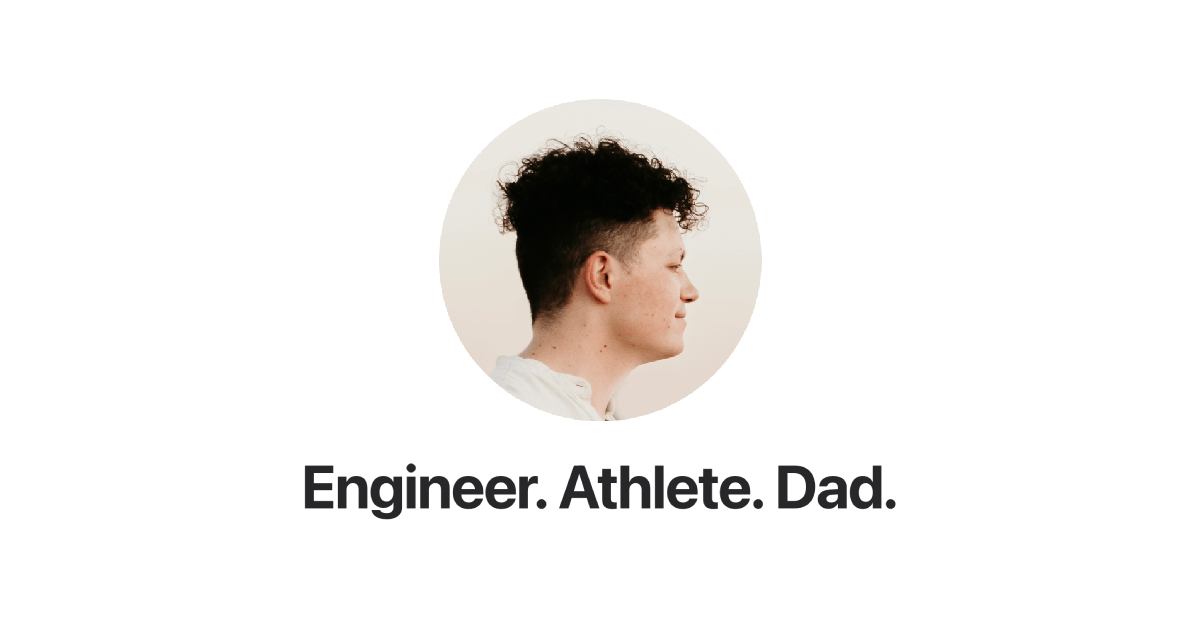
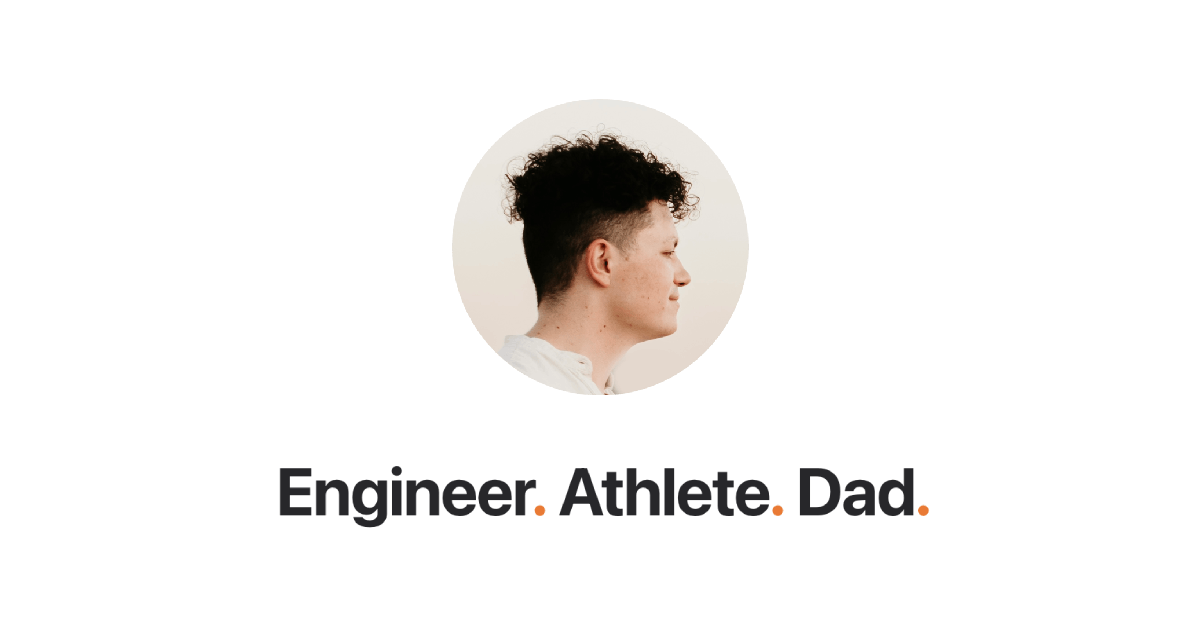
update themes

diff --git a/src/app/page.tsx b/src/app/page.tsx
@@ -7,12 +7,6 @@ import {
 } from '@/components/Icons';
 import { Photos } from '@/components/Photos';
 import { SocialLink } from '@/components/SocialLink';
-import { Metadata } from 'next';
-
-export const metadata: Metadata = {
-  title: 'Home',
-  description: 'I’m Matt Kharrl: engineer, athlete, and dad.',
-};
 
 export default async function Home() {
   return (
@@ -20,7 +14,11 @@ export default async function Home() {
       <Container className="mt-9">
         <div className="max-w-2xl">
           <h1 className="text-4xl font-bold tracking-tight text-zinc-800 dark:text-zinc-100 sm:text-5xl">
-            Engineer. Athlete. Dad.
+            Engineer
+            <span className="text-orange-500 dark:text-orange-400">.</span>{' '}
+            Athlete
+            <span className="text-orange-500">.</span> Dad
+            <span className="text-orange-500">.</span>
           </h1>
           <p className="mt-6 text-base text-zinc-600 dark:text-zinc-400">
             At any given moment I am either developing software, racing my bike,

diff --git a/src/components/Role.tsx b/src/components/Role.tsx
@@ -39,7 +39,9 @@ export function Role({ role }: { role: Role }) {
           <div className="absolute -inset-x-2 -inset-y-2 z-0 scale-95 rounded-lg bg-zinc-50 opacity-0 transition group-hover:scale-100 group-hover:opacity-100 dark:bg-zinc-800/50" />
           <Link href={role.url}>
             <span className="absolute -inset-x-4 -inset-y-6 z-20 sm:-inset-x-6 sm:rounded-2xl" />
-            <span className="relative z-10">{role.title}</span>
+            <span className="relative z-10  group-hover:text-orange-500">
+              {role.title}
+            </span>
           </Link>
         </dd>
         <dt className="sr-only">Date</dt>

diff --git a/src/components/SocialLink.tsx b/src/components/SocialLink.tsx
@@ -8,7 +8,7 @@ export function SocialLink({
 }) {
   return (
     <Link className="group -m-1 p-1" {...props}>
-      <Icon className="h-6 w-6 fill-zinc-500 transition group-hover:fill-zinc-600 dark:fill-zinc-400 dark:group-hover:fill-zinc-300" />
+      <Icon className="h-6 w-6 fill-zinc-500 transition group-hover:fill-orange-600 dark:fill-zinc-400 dark:group-hover:fill-orange-400" />
     </Link>
   );
 }
